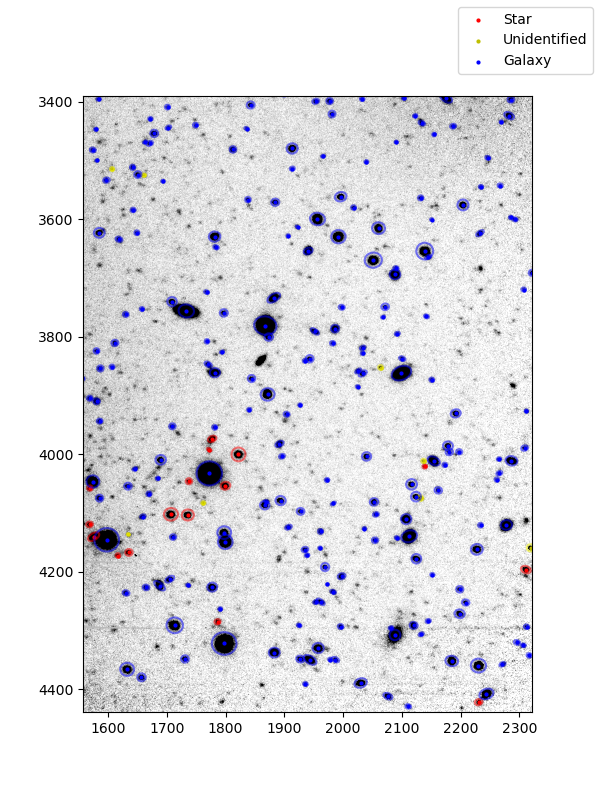
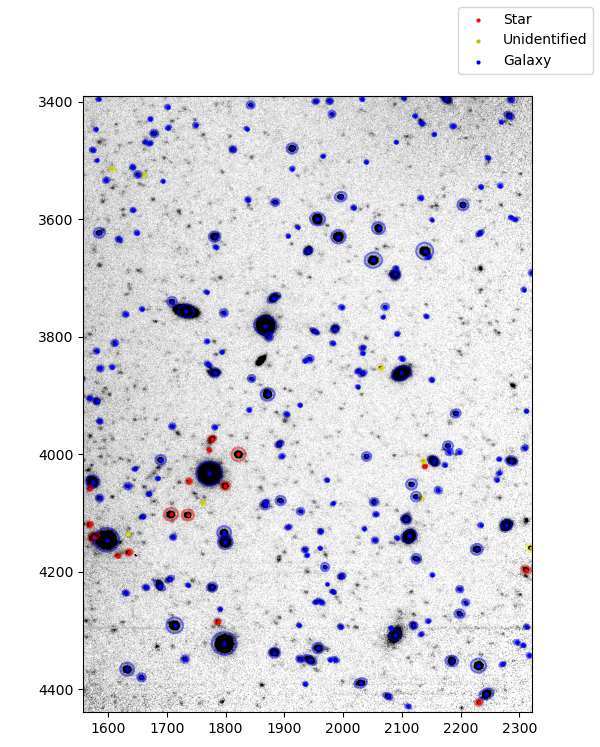
plots

Changed region(s): [[0.06, 0.0, 0.99, 0.9853], [0.06, 0.2463, 0.12, 0.3079]]

diff --git a/astroimag_1.py b/astroimag_1.py
@@ -15,24 +15,24 @@ imag = hdul[0].data
 imag = imag[::-1]
 
 # visualising the statistics of the image
-imag1 = np.reshape(imag,len(imag)*len(imag[0]))
-# print(min(imag1),max(imag1))
-plt.figure()
-plt.xlabel('Pixel Values')
-plt.ylabel('Count')
-bin_heights, bin_edges, patches = plt.hist(imag1,bins=20000)
-midpoints = 0.5 * (bin_edges[1:]+bin_edges[:-1])
-def gaussian(x,a,b,c,d):
-    return a*np.exp(-(x-b)**2/c**2) +d
-popt,pcov = optimize.curve_fit(gaussian,midpoints,bin_heights,p0=[1e6,3421,10,0])
-plt.plot(midpoints,bin_heights,'x',color='cyan')
-pix = np.linspace(3.3e3,3.6e3,1000)
-plt.plot(pix,gaussian(pix,*popt),'-',color='salmon')
-# plt.xlim(3.3e3,3.6e3)
-plt.show()
-average_background, average_background_err = popt[1], np.sqrt(pcov[1][1])
-background_sigma = popt[2]
-print(average_background, average_background_err, background_sigma)
+# imag1 = np.reshape(imag,len(imag)*len(imag[0]))
+# # print(min(imag1),max(imag1))
+# plt.figure()
+# plt.xlabel('Pixel Values')
+# plt.ylabel('Count')
+# bin_heights, bin_edges, patches = plt.hist(imag1,bins=20000)
+# midpoints = 0.5 * (bin_edges[1:]+bin_edges[:-1])
+# def gaussian(x,a,b,c,d):
+#     return a*np.exp(-(x-b)**2/c**2) +d
+# popt,pcov = optimize.curve_fit(gaussian,midpoints,bin_heights,p0=[1e6,3421,10,0])
+# plt.plot(midpoints,bin_heights,'x',color='cyan')
+# pix = np.linspace(3.3e3,3.6e3,1000)
+# plt.plot(pix,gaussian(pix,*popt),'-',color='salmon')
+# # plt.xlim(3.3e3,3.6e3)
+# plt.show()
+# average_background, average_background_err = popt[1], np.sqrt(pcov[1][1])
+# background_sigma = popt[2]
+# print(average_background, average_background_err, background_sigma)
 
 # visualising the image in 3d
 # average_background = 3418.8155053212563 # from histogram gaussian fit
@@ -49,11 +49,11 @@ print(average_background, average_background_err, background_sigma)
 
 # visualising the image 
 # plt.style.use(astropy_mpl_style)
-plt.figure(figsize=(12,8))
-plt.subplot(1,2,1)
-plt.imshow(imag,cmap='plasma',norm=colors.LogNorm())
-plt.subplot(1,2,2)
-plt.imshow(imag,cmap='Greys',norm=ImageNormalize(imag,interval=AsymmetricPercentileInterval(49,53,8),stretch=LinearStretch(2,-1)))
-plt.colorbar(label='Pixel Values')
+plt.figure(figsize=(5,7))
+#plt.subplot(1,2,1)
+#plt.imshow(imag,cmap='inferno',norm=colors.LogNorm())
+#plt.subplot(1,2,2)
+plt.imshow(imag,cmap='Greys',norm=ImageNormalize(imag,interval=AsymmetricPercentileInterval(5,95),stretch=LinearStretch()))
+plt.tight_layout()
 plt.show()
 
